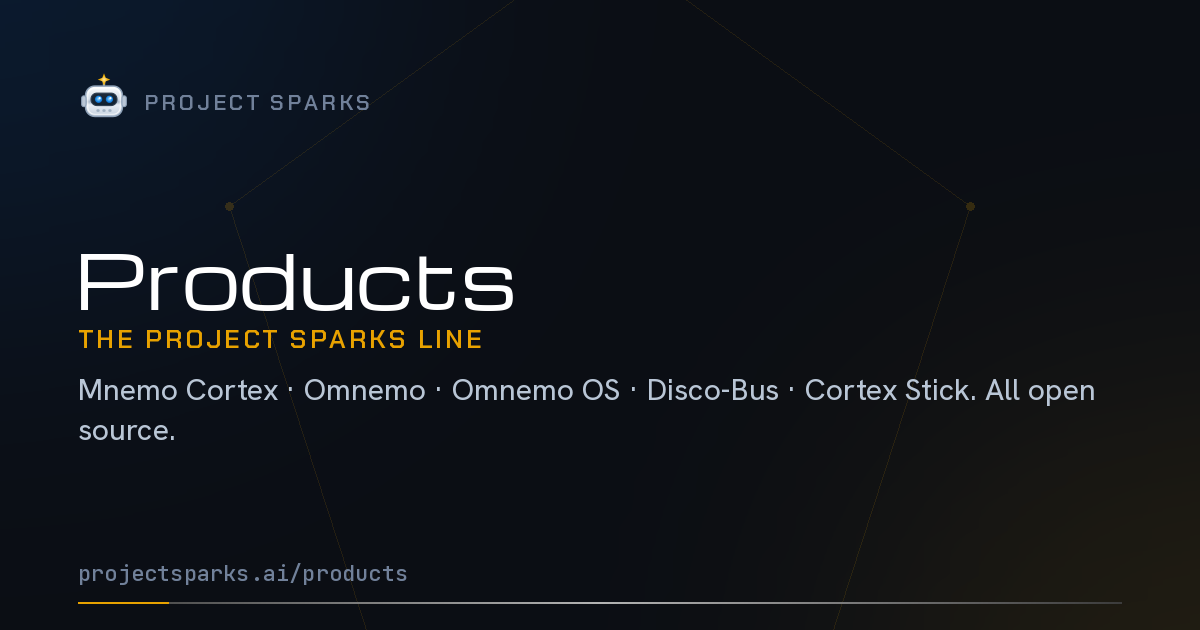
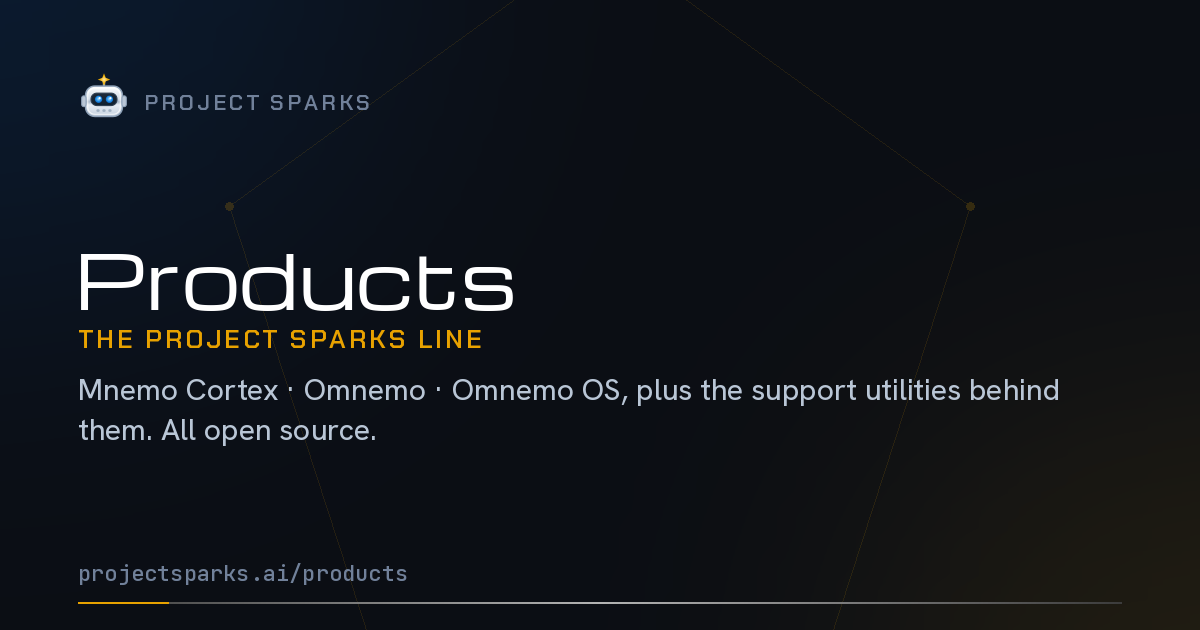
products: three Products + Support Utilities (Disco-Bus, Cortex Stick); FrankenClaw off the list
Guy 2026-10-31: 'Part of the stack means nothing to most users. Support Utilities sounds better.'

Changed region(s): [[0.5242, 0.6032, 0.925, 0.6333], [0.0617, 0.6635, 0.3083, 0.7238]]

diff --git a/products/index.html b/products/index.html
@@ -4,7 +4,7 @@
 <meta charset="UTF-8">
 <meta name="viewport" content="width=device-width, initial-scale=1.0">
 <title>Products — Project Sparks</title>
-<meta name="description" content="The Project Sparks product line: Mnemo Cortex (cognitive coprocessor with active memory), Omnemo (shared memory for Omarchy), Omnemo OS (an easy-to-use desktop with memory built in, public preview), Disco-Bus (agent-to-agent messaging), and Cortex Stick (USB courier for agent memory). All open source.">
+<meta name="description" content="The Project Sparks products: Mnemo Cortex (cognitive coprocessor with active memory), Omnemo (shared memory for Omarchy) and Omnemo OS (an easy-to-use desktop with memory built in). Plus two support utilities, Disco-Bus and Cortex Stick. All open source.">
 <meta property="og:title" content="Products — Project Sparks">
 <meta property="og:description" content="Mnemo Cortex, Disco-Bus, Cortex Stick. Open-source AI agent infrastructure — memory, messaging, and more.">
 <meta property="og:image" content="https://projectsparks.ai/products/og.png">
@@ -77,19 +77,20 @@
           <a href="https://github.com/GuyMannDude/omnemo-os" target="_blank" class="btn btn-ghost">GitHub</a>
         </div>
       </div>
+    </div>
+
+
+    <div class="section-label centered" style="margin-top: 56px;">Support Utilities</div>
+    <h2 style="text-align: center;">The helpers behind the products.</h2>
+    <p class="subtitle" style="text-align: center;">Used by Mnemo Cortex and the fleet behind Project Sparks. Free and open source, if you need the same thing.</p>
+
+    <div class="grid" style="grid-template-columns: repeat(auto-fit, minmax(280px, 1fr)); margin-top: 32px; max-width: 760px; margin-left: auto; margin-right: auto;">
       <div class="card product-card">
         <div class="name">Disco-Bus</div>
         <div class="desc">Push-based agent-to-agent message mesh with full delivery confirmation. SQLite-backed dispatcher, per-agent HTTP listeners, optional Discord mirror. Sub-second delivery, ~1000 lines of code.</div>
         <div class="btn-row">
           <a href="/disco-bus" class="btn btn-primary">Product page</a>
           <a href="https://github.com/GuyMannDude/disco-bus" target="_blank" class="btn btn-ghost">GitHub</a>
-        </div>
-      </div>
-      <div class="card product-card">
-        <div class="name">FrankenClaw</div>
-        <div class="desc">An MCP tool chassis. <strong>Withdrawn from public distribution</strong> (2026-08-17, security precaution) — continues in private development. Existing installs keep working.</div>
-        <div class="btn-row">
-          <a href="/frankenclaw" class="btn btn-primary">Why it&rsquo;s private</a>
         </div>
       </div>
       <div class="card product-card">
@@ -103,7 +104,7 @@
     </div>
 
     <div class="content" style="text-align: center; margin-top: 44px;">
-      <p style="color: var(--ink-faint); font-size: 15px;">More from the lab: <a href="/cortex-harness">Cortex Harness</a> &middot; <a href="/stack">The Stack</a> &middot; <a href="/field-guide">Field Guide</a> &middot; <a href="https://github.com/GuyMannDude/cronalarm" target="_blank">CronAlarm</a></p>
+      <p style="color: var(--ink-faint); font-size: 15px;">More from the lab: <a href="/cortex-harness">Cortex Harness</a> &middot; <a href="/stack">The Stack</a> &middot; <a href="/field-guide">Field Guide</a> &middot; <a href="https://github.com/GuyMannDude/cronalarm" target="_blank">CronAlarm</a> &middot; <a href="/frankenclaw">FrankenClaw (withdrawn)</a></p>
     </div>
   </div>
 </section>

diff --git a/tools/og-gen.py b/tools/og-gen.py
@@ -180,7 +180,7 @@ SITE = {
                    tagline="One shared memory for every AI agent on the box. Save in one, recall in any.",
                    badge="FREE · OPEN SOURCE", title_size=92),
     "products": dict(title="Products", kicker="The Project Sparks line",
-                     tagline="Mnemo Cortex · Omnemo · Omnemo OS · Disco-Bus · Cortex Stick. All open source."),
+                     tagline="Mnemo Cortex · Omnemo · Omnemo OS, plus the support utilities behind them. All open source."),
     "about": dict(title="About", kicker="Project Sparks",
                   tagline="One maker and his AI agents, building open-source memory and tools from Half Moon Bay, California."),
     "stack": dict(title="The Stack", kicker="AI agent infrastructure",
